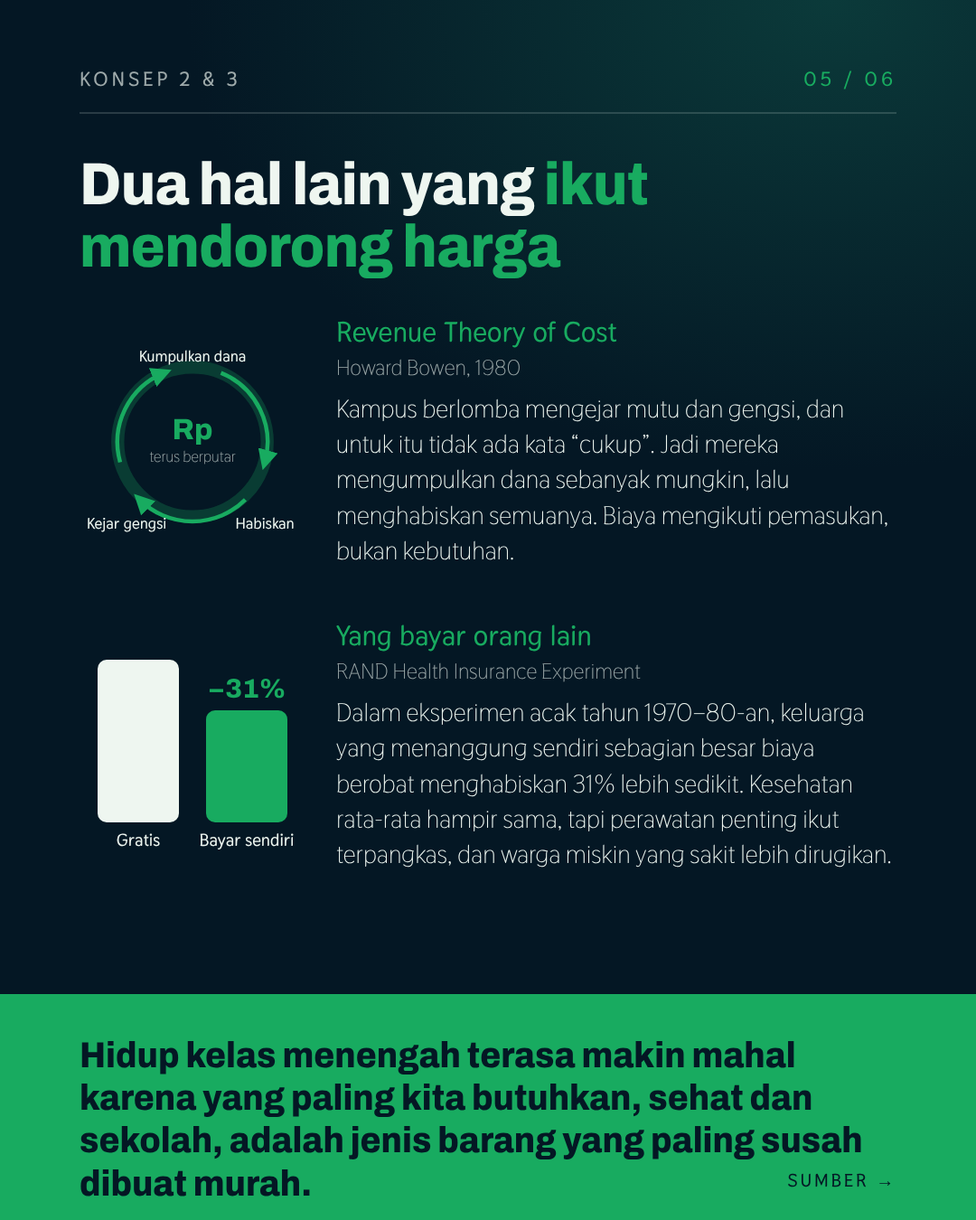
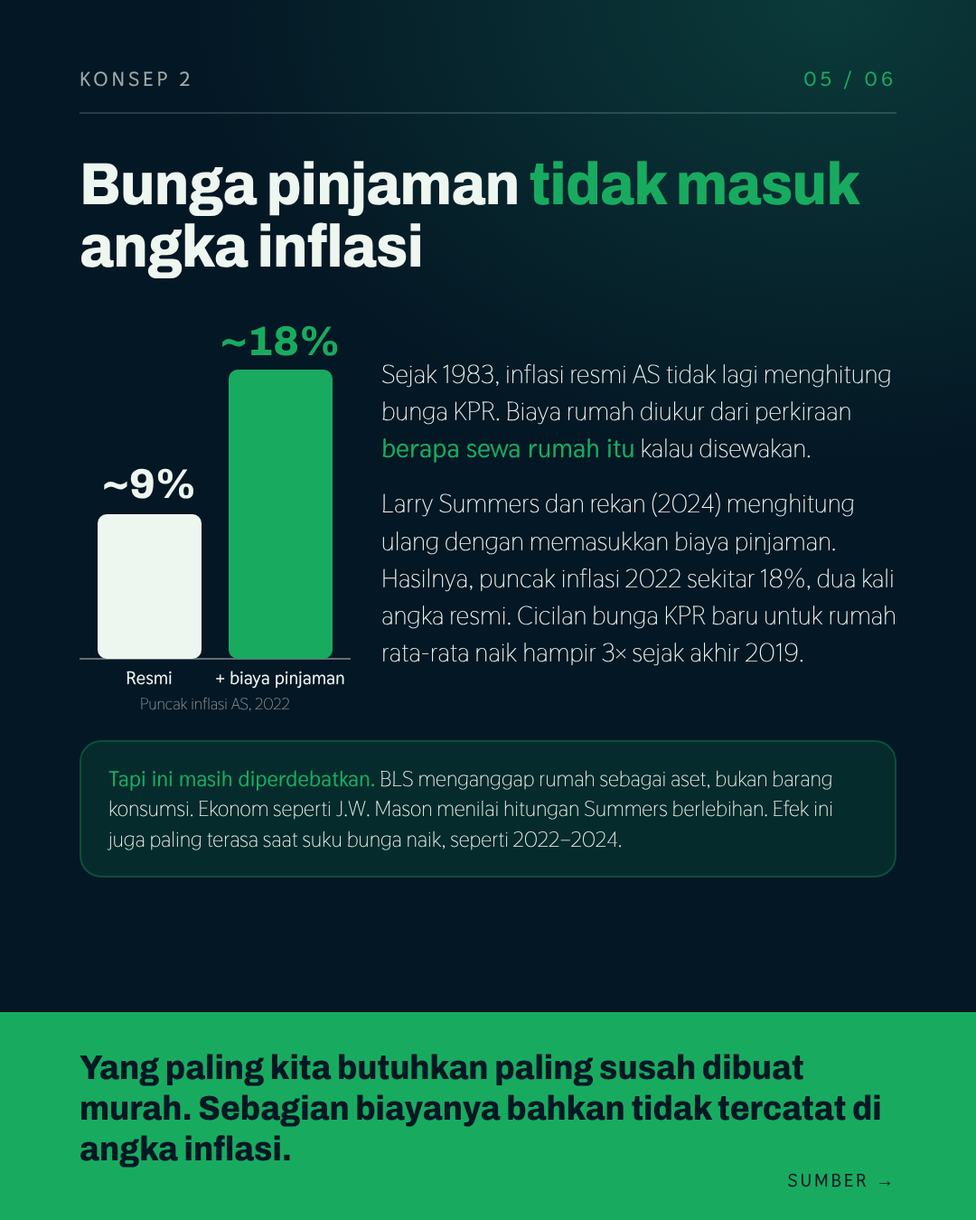
Revise slides 1, 3, 5, 6: diverging hospital/TV bars, inflation-as-average bridge to Baumol, CPI excludes mortgage interest
Claude-Session: https://claude.ai/code/session_01D1Rcjsap9uvFUcCcY9nTUe

Changed region(s): [[0.0611, 0.1244, 0.9167, 0.7156], [0.0, 0.8089, 1.0, 0.9956], [0.0917, 0.1244, 0.1222, 0.1556]]

diff --git a/carousel/carousel.html b/carousel/carousel.html
@@ -71,7 +71,7 @@
   /* slide 5 */
   .concept { display: grid; grid-template-columns: 250px 1fr; gap: 34px; align-items: center; margin-top: 30px; }
   .concept h3 { font: 700 31px/1.2 var(--body); color: var(--lime); margin-bottom: 10px; }
-  .concept p { font-size: 28px; line-height: 1.4; }
+  .concept p { font-size: 29px; line-height: 1.42; }
   .end { position: absolute; left: 0; right: 0; bottom: 0; height: 250px; background: var(--lime);
          padding: 44px 88px 0; color: var(--ink); }
   .end p { font: 800 40px/1.18 var(--head); font-stretch: 92%; }
@@ -93,24 +93,23 @@
 
   <h1>Di Amerika, harga TV tinggal secuil dibanding tahun 2000.<br><span class="hl">Biaya rumah sakit? Hampir empat kali lipat.</span></h1>
 
-  <svg width="904" height="430" viewBox="0 0 904 430" style="margin-top:40px">
-    <line x1="0" y1="376" x2="904" y2="376" stroke="rgba(238,246,240,.35)" stroke-width="2"/>
-    <line x1="0" y1="282" x2="904" y2="282" stroke="rgba(238,246,240,.4)" stroke-width="2" stroke-dasharray="6 8"/>
-    <text x="0" y="268" font-size="21" fill="rgba(238,246,240,.7)" letter-spacing="1.5">HARGA TAHUN 2000</text>
+  <svg width="904" height="470" viewBox="0 0 904 470" style="margin-top:36px">
+    <rect x="190" y="15" width="250" height="315" rx="10" fill="#18ab60"/>
+    <text x="315" y="89" text-anchor="middle" font-size="60" font-weight="800" fill="#041724" style="font-family:'Archivo';font-stretch:92%">+281%</text>
+    <text x="315" y="125" text-anchor="middle" font-size="23" fill="#041724">≈ 3,8× lipat</text>
+    <text x="315" y="374" text-anchor="middle" font-size="28" font-weight="700">Layanan rumah sakit</text>
 
-    <rect x="170" y="282" width="230" height="94" rx="10" fill="none" stroke="rgba(238,246,240,.45)" stroke-width="2.5" stroke-dasharray="8 7"/>
-    <rect x="170" y="370" width="230" height="6" rx="3" fill="#eef6f0"/>
-    <text x="285" y="344" text-anchor="middle" font-size="46" font-weight="700" style="font-family:'Archivo';font-stretch:92%">−97%</text>
-    <text x="285" y="416" text-anchor="middle" font-size="28" font-weight="700">TV</text>
+    <rect x="560" y="330" width="250" height="109" rx="10" fill="rgba(238,246,240,.12)" stroke="#eef6f0" stroke-width="2.5"/>
+    <text x="685" y="400" text-anchor="middle" font-size="50" font-weight="800" style="font-family:'Archivo';font-stretch:92%">−97%</text>
+    <text x="685" y="308" text-anchor="middle" font-size="28" font-weight="700">TV</text>
 
-    <rect x="540" y="18" width="230" height="358" rx="10" fill="#18ab60"/>
-    <rect x="540" y="282" width="230" height="94" rx="10" fill="none" stroke="#041724" stroke-opacity=".45" stroke-width="2.5" stroke-dasharray="8 7"/>
-    <text x="655" y="92" text-anchor="middle" font-size="56" font-weight="800" fill="#041724" style="font-family:'Archivo';font-stretch:92%">+281%</text>
-    <text x="655" y="126" text-anchor="middle" font-size="22" fill="#041724">≈ 3,8× lipat</text>
-    <text x="655" y="416" text-anchor="middle" font-size="28" font-weight="700">Layanan rumah sakit</text>
+    <line x1="0" y1="330" x2="904" y2="330" stroke="#eef6f0" stroke-width="3"/>
+    <text x="0" y="316" font-size="21" font-weight="700" letter-spacing="1.5">0%</text>
+    <text x="0" y="360" font-size="18" fill="rgba(238,246,240,.7)">= harga</text>
+    <text x="0" y="382" font-size="18" fill="rgba(238,246,240,.7)">tahun 2000</text>
   </svg>
 
-  <p class="lead" style="margin-top:26px;font-size:31px">Kenapa hal-hal yang paling kita butuhkan justru yang paling cepat naik harganya?</p>
+  <p class="lead" style="margin-top:20px;font-size:31px">Kenapa hal-hal yang paling kita butuhkan justru yang paling cepat naik harganya?</p>
 
   <div class="bottom">
     <span>Data Amerika Serikat. Rumah sakit 2000–2025, TV 2000–2022.<br>Sumber: BLS via Mark J. Perry (AEI).</span>
@@ -182,63 +181,58 @@
   </div>
 </section>
 
-<!-- ───────────── 03 PUBLIC OR PRIVATE ───────────── -->
+<!-- ───────────── 03 INFLATION IS AN AVERAGE ───────────── -->
 <section class="slide dark" id="s3">
-  <div class="top"><span>Negeri atau swasta?</span><span class="num">03 / 06</span></div>
+  <div class="top"><span>Kenapa terasa mahal?</span><span class="num">03 / 06</span></div>
   <div class="rule"></div>
 
-  <h2 style="margin-top:44px">Salah pengelolanya?<br><span class="hl">Ternyata dua-duanya kena.</span></h2>
+  <h2 style="margin-top:44px">Inflasi itu rata-rata.<br><span class="hl">Hidup kita tidak.</span></h2>
+  <p class="lead" style="font-size:30px;margin-top:22px">Angka inflasi <b>+93%</b> adalah rata-rata dari ratusan barang dan jasa. Barang yang makin murah ikut menarik rata-rata itu ke bawah.</p>
 
-  <div class="cards">
-    <div class="card">
-      <svg width="320" height="176" viewBox="0 0 320 176">
-        <text x="0" y="20" font-size="21" font-weight="700">Inflasi</text>
-        <rect x="0" y="30" width="56" height="26" rx="5" fill="none" stroke="rgba(238,246,240,.55)" stroke-width="2" stroke-dasharray="5 5"/>
-        <text x="68" y="51" font-size="24" font-weight="800" style="font-family:'Archivo'" fill="rgba(238,246,240,.7)">1×</text>
-        <text x="0" y="82" font-size="21" font-weight="700">Negeri</text>
-        <rect x="0" y="92" width="129" height="26" rx="5" fill="#138651"/>
-        <text x="141" y="113" font-size="24" font-weight="800" style="font-family:'Archivo'">2,3×</text>
-        <text x="0" y="144" font-size="21" font-weight="700">Swasta nirlaba</text>
-        <rect x="0" y="150" width="134" height="26" rx="5" fill="#18ab60"/>
-        <text x="146" y="171" font-size="24" font-weight="800" style="font-family:'Archivo'" fill="#18ab60">2,4×</text>
-      </svg>
-      <div>
-        <h3>Kampus negeri &amp; swasta</h3>
-        <p>Selama 1987–2025, biaya kuliah naik 2,3× laju inflasi di kampus negeri dan 2,4× di kampus swasta nirlaba. Hampir sama.</p>
-      </div>
-    </div>
+  <!-- strip plot: x = 40 + (v + 100) * 2.06 -->
+  <svg width="904" height="440" viewBox="0 0 904 440" style="margin-top:22px">
+    <rect x="40" y="246" width="206" height="8" rx="4" fill="rgba(238,246,240,.35)"/>
+    <rect x="246" y="246" width="618" height="8" rx="4" fill="#0e6142"/>
+    <rect x="246" y="246" width="192" height="8" rx="4" fill="#138651"/>
+    <line x1="246" y1="236" x2="246" y2="264" stroke="#eef6f0" stroke-width="3"/>
+    <text x="246" y="290" text-anchor="middle" font-size="19" font-weight="700" fill="rgba(238,246,240,.75)">0%</text>
+    <text x="864" y="18" text-anchor="end" font-size="18" font-weight="700" letter-spacing="2" fill="#18ab60">DIKERJAKAN MANUSIA ↑</text>
+    <text x="40" y="440" font-size="18" font-weight="700" letter-spacing="2" fill="rgba(238,246,240,.7)">DIBUAT MESIN ↓</text>
 
-    <div class="card">
-      <div class="big">20,5<span class="hl"> → </span>15,4<small>murid per guru, 1970 → 1990</small></div>
-      <div>
-        <h3>Sekolah negeri</h3>
-        <p>Ikut makin mahal. Salah satu sebabnya, satu guru kini mengurus lebih sedikit murid, jadi butuh lebih banyak guru.</p>
-      </div>
-    </div>
+    <line x1="438" y1="220" x2="438" y2="286" stroke="#18ab60" stroke-width="3"/>
+    <circle cx="438" cy="250" r="18" fill="#041724" stroke="#18ab60" stroke-width="4"/>
+    <text x="430" y="320" font-size="24" font-weight="700" fill="#18ab60">+93% rata-rata inflasi</text>
+    <text x="430" y="350" font-size="21" fill="rgba(238,246,240,.8)">← ditarik turun oleh barang murah</text>
+    <line x1="46" y1="250" x2="46" y2="378" stroke="#eef6f0" stroke-opacity=".5" stroke-width="2"/>
+    <text x="58" y="404" text-anchor="start" font-size="23"><tspan font-weight="700" fill="#eef6f0">−97%</tspan> <tspan fill="rgba(238,246,240,.85)">TV</tspan></text>
+    <line x1="98" y1="250" x2="98" y2="336" stroke="#eef6f0" stroke-opacity=".5" stroke-width="2"/>
+    <text x="110" y="362" text-anchor="start" font-size="23"><tspan font-weight="700" fill="#eef6f0">−72%</tspan> <tspan fill="rgba(238,246,240,.85)">Mainan</tspan></text>
+    <line x1="101" y1="250" x2="101" y2="294" stroke="#eef6f0" stroke-opacity=".5" stroke-width="2"/>
+    <text x="113" y="320" text-anchor="start" font-size="23"><tspan font-weight="700" fill="#eef6f0">−70,5%</tspan> <tspan fill="rgba(238,246,240,.85)">Software</tspan></text>
+    <line x1="162" y1="250" x2="162" y2="118" stroke="#eef6f0" stroke-opacity=".5" stroke-width="2"/>
+    <text x="174" y="110" text-anchor="start" font-size="23"><tspan font-weight="700" fill="#eef6f0">−41%</tspan> <tspan fill="rgba(238,246,240,.85)">Layanan ponsel</tspan></text>
+    <line x1="516" y1="250" x2="516" y2="178" stroke="#eef6f0" stroke-opacity=".5" stroke-width="2"/>
+    <text x="504" y="170" text-anchor="end" font-size="23"><tspan font-weight="700" fill="#eef6f0">+131%</tspan> <tspan fill="rgba(238,246,240,.85)">Gaji per jam</tspan></text>
+    <line x1="652" y1="250" x2="652" y2="118" stroke="#18ab60" stroke-opacity=".5" stroke-width="2"/>
+    <text x="664" y="110" text-anchor="start" font-size="23"><tspan font-weight="700" fill="#18ab60">+197%</tspan> <tspan fill="rgba(238,246,240,.85)">Kuliah</tspan></text>
+    <line x1="825" y1="250" x2="825" y2="58" stroke="#18ab60" stroke-opacity=".5" stroke-width="2"/>
+    <text x="835" y="50" text-anchor="end" font-size="23"><tspan font-weight="700" fill="#18ab60">+281%</tspan> <tspan fill="rgba(238,246,240,.85)">Rumah sakit</tspan></text>
+    <circle cx="46" cy="250" r="10" fill="#041724" stroke="#eef6f0" stroke-width="3"/>
+    <circle cx="98" cy="250" r="10" fill="#041724" stroke="#eef6f0" stroke-width="3"/>
+    <circle cx="101" cy="250" r="10" fill="#041724" stroke="#eef6f0" stroke-width="3"/>
+    <circle cx="162" cy="250" r="10" fill="#041724" stroke="#eef6f0" stroke-width="3"/>
+    <circle cx="516" cy="250" r="11" fill="#eef6f0"/>
+    <circle cx="652" cy="250" r="13" fill="#18ab60"/>
+    <circle cx="825" cy="250" r="13" fill="#18ab60"/>
+    
+  </svg>
 
-    <div class="card">
-      <svg width="300" height="130" viewBox="0 0 300 150" aria-label="Ikon panggung">
-        <path d="M10 20 Q150 70 290 20 L290 34 Q150 84 10 34 Z" fill="#18ab60"/>
-        <path d="M10 20 L10 140 L58 140 Q40 80 52 36 Z" fill="#138651"/>
-        <path d="M290 20 L290 140 L242 140 Q260 80 248 36 Z" fill="#138651"/>
-        <g fill="#eef6f0">
-          <circle cx="112" cy="104" r="11"/><rect x="104" y="117" width="16" height="23" rx="5"/>
-          <circle cx="150" cy="98" r="11"/><rect x="142" y="111" width="16" height="29" rx="5"/>
-          <circle cx="188" cy="104" r="11"/><rect x="180" y="117" width="16" height="23" rx="5"/>
-        </g>
-        <line x1="60" y1="141" x2="240" y2="141" stroke="#eef6f0" stroke-width="3"/>
-      </svg>
-      <div>
-        <h3>Seni pertunjukan</h3>
-        <p>Pola ini pertama kali ditemukan di orkestra dan teater, yang tidak ada urusannya dengan pemerintah.</p>
-      </div>
-    </div>
-  </div>
+  <p style="font-size:27px;line-height:1.4;margin-top:16px">Masalahnya, TV murah tidak bisa membayar biaya rumah sakit. Yang makin murah adalah barang yang bisa ditunda. Yang makin mahal justru yang tidak bisa kita hindari: berobat dan sekolah.</p>
 
-  <p class="callout" style="margin-top:28px;font-size:31px">Mungkin pertanyaannya bukan siapa yang mengelola. Ada sesuatu di sifat pekerjaannya.</p>
+  <p class="callout" style="margin-top:24px;font-size:30px">Kenapa yang dibuat mesin makin murah, sementara yang dikerjakan manusia makin mahal? Tahun 1966, dua ekonom menemukan jawabannya.</p>
 
   <div class="bottom">
-    <span>Sumber: Educational Policy Institute (data College Board); Hanushek (1996).</span>
+    <span>Data AS. RS, kuliah, gaji, inflasi: 2000–2025. TV, mainan, software, ponsel: 2000–2022. Sumber: BLS via Mark J. Perry (AEI).</span>
     <span class="swipe">Geser →</span>
   </div>
 </section>
@@ -302,50 +296,36 @@
   </div>
 </section>
 
-<!-- ───────────── 05 BOWEN + RAND ───────────── -->
+<!-- ───────────── 05 COST OF MONEY ───────────── -->
 <section class="slide dark" id="s5">
-  <div class="top"><span>Konsep 2 &amp; 3</span><span class="num">05 / 06</span></div>
+  <div class="top"><span>Konsep 2</span><span class="num">05 / 06</span></div>
   <div class="rule"></div>
 
-  <h2 style="margin-top:44px">Dua hal lain yang <span class="hl">ikut mendorong harga</span></h2>
+  <h2 style="margin-top:44px">Bunga pinjaman <span class="hl">tidak masuk</span> angka inflasi</h2>
 
-  <div class="concept" style="margin-top:40px">
-    <svg width="250" height="250" viewBox="-14 0 278 250">
-      <defs><marker id="ar" viewBox="0 0 10 10" refX="6" refY="5" markerWidth="5" markerHeight="5" orient="auto"><path d="M0 0 L10 5 L0 10 Z" fill="#18ab60"/></marker></defs>
-      <circle cx="125" cy="125" r="92" fill="none" stroke="rgba(24,171,96,.25)" stroke-width="16"/>
-      <path d="M 160 40 A 92 92 0 0 1 214 150" fill="none" stroke="#18ab60" stroke-width="5" marker-end="url(#ar)"/>
-      <path d="M 190 196 A 92 92 0 0 1 60 196" fill="none" stroke="#18ab60" stroke-width="5" marker-end="url(#ar)"/>
-      <path d="M 36 150 A 92 92 0 0 1 90 40" fill="none" stroke="#18ab60" stroke-width="5" marker-end="url(#ar)"/>
-      <g font-size="19" font-weight="700" text-anchor="middle">
-        <text x="125" y="26">Kumpulkan dana</text>
-        <text x="214" y="232">Habiskan</text>
-        <text x="44" y="232">Kejar gengsi</text>
-      </g>
-      <text x="125" y="122" text-anchor="middle" font-size="36" font-weight="800" fill="#18ab60" style="font-family:'Archivo'">Rp</text>
-      <text x="125" y="150" text-anchor="middle" font-size="19" fill="rgba(238,246,240,.7)">terus berputar</text>
+  <div class="concept" style="margin-top:40px;grid-template-columns:300px 1fr;align-items:center">
+    <svg width="300" height="440" viewBox="0 0 300 440">
+      <line x1="0" y1="380" x2="300" y2="380" stroke="rgba(238,246,240,.4)" stroke-width="2"/>
+      <rect x="20" y="220" width="115" height="160" rx="10" fill="#eef6f0"/>
+      <rect x="165" y="60" width="115" height="320" rx="10" fill="#18ab60"/>
+      <text x="77" y="202" text-anchor="middle" font-size="46" font-weight="800" style="font-family:'Archivo'">~9%</text>
+      <text x="222" y="44" text-anchor="middle" font-size="46" font-weight="800" fill="#18ab60" style="font-family:'Archivo'">~18%</text>
+      <text x="77" y="408" text-anchor="middle" font-size="20" font-weight="700">Resmi</text>
+      <text x="222" y="408" text-anchor="middle" font-size="20" font-weight="700">+ biaya pinjaman</text>
+      <text x="150" y="436" text-anchor="middle" font-size="18" fill="rgba(238,246,240,.6)">Puncak inflasi AS, 2022</text>
     </svg>
     <div>
-      <h3>Revenue Theory of Cost<br><span style="color:var(--mist);font-weight:400;font-size:24px">Howard Bowen, 1980</span></h3>
-      <p>Kampus berlomba mengejar mutu dan gengsi, dan untuk itu tidak ada kata “cukup”. Jadi mereka mengumpulkan dana sebanyak mungkin, lalu menghabiskan semuanya. Biaya mengikuti pemasukan, bukan kebutuhan.</p>
+      <p>Sejak 1983, inflasi resmi AS tidak lagi menghitung bunga KPR. Biaya rumah diukur dari perkiraan <b style="color:#18ab60">berapa sewa rumah itu</b> kalau disewakan.</p>
+      <p style="margin-top:20px">Larry Summers dan rekan (2024) menghitung ulang dengan memasukkan biaya pinjaman. Hasilnya, puncak inflasi 2022 sekitar 18%, dua kali angka resmi. Cicilan bunga KPR baru untuk rumah rata-rata naik hampir 3× sejak akhir 2019.</p>
     </div>
   </div>
 
-  <div class="concept" style="margin-top:56px">
-    <svg width="250" height="230" viewBox="0 0 250 230">
-      <rect x="20" y="20" width="90" height="180" rx="10" fill="#eef6f0"/>
-      <rect x="140" y="76" width="90" height="124" rx="10" fill="#18ab60"/>
-      <text x="185" y="62" text-anchor="middle" font-size="30" font-weight="800" fill="#18ab60" style="font-family:'Archivo'">−31%</text>
-      <text x="65" y="226" text-anchor="middle" font-size="19" font-weight="700">Gratis</text>
-      <text x="185" y="226" text-anchor="middle" font-size="19" font-weight="700">Bayar sendiri</text>
-    </svg>
-    <div>
-      <h3>Yang bayar orang lain<br><span style="color:var(--mist);font-weight:400;font-size:24px">RAND Health Insurance Experiment</span></h3>
-      <p>Dalam eksperimen acak tahun 1970–80-an, keluarga yang menanggung sendiri sebagian besar biaya berobat menghabiskan 31% lebih sedikit. Kesehatan rata-rata hampir sama, tapi perawatan penting ikut terpangkas, dan warga miskin yang sakit lebih dirugikan.</p>
-    </div>
+  <div style="margin-top:30px;padding:24px 30px;border-radius:24px;background:rgba(14,97,66,.28);border:2px solid rgba(24,171,96,.28)">
+    <p style="font-size:24px;line-height:1.4"><b style="color:#18ab60">Tapi ini masih diperdebatkan.</b> BLS menganggap rumah sebagai aset, bukan barang konsumsi. Ekonom seperti J.W. Mason menilai hitungan Summers berlebihan. Efek ini juga paling terasa saat suku bunga naik, seperti 2022–2024.</p>
   </div>
 
-  <div class="end">
-    <p>Hidup kelas menengah terasa makin mahal karena yang paling kita butuhkan, sehat dan sekolah, adalah jenis barang yang paling susah dibuat murah.</p>
+  <div class="end" style="height:230px;padding-top:40px">
+    <p style="font-size:38px">Yang paling kita butuhkan paling susah dibuat murah. Sebagian biayanya bahkan tidak tercatat di angka inflasi.</p>
     <span class="swipe">Sumber →</span>
   </div>
 </section>
@@ -358,18 +338,18 @@
   <h2 style="margin-top:44px">Bacaan &amp; <span class="hl">data</span></h2>
 
   <ol class="src">
-    <li><span>Mark J. Perry (AEI), “Chart of the Century”, pembaruan 2000–2025, via HumanProgress.org (Gale Pooley, 2026). Data TV dari edisi Juli 2022. <i>Data dasar: BLS.</i></span></li>
-    <li><span>Educational Policy Institute, analisis data College Board 1987–2025.</span></li>
-    <li><span>Eric Hanushek, dikutip dalam <i>Christian Science Monitor</i> (1996).</span></li>
+    <li><span>Mark J. Perry (AEI), “Chart of the Century”, pembaruan 2000–2025, via HumanProgress.org (Gale Pooley, 2026); edisi Juli 2022 untuk TV, mainan, software, ponsel. <i>Data dasar: BLS.</i></span></li>
     <li><span>William Baumol &amp; William Bowen (1966), <i>Performing Arts: The Economic Dilemma.</i></span></li>
-    <li><span>William Baumol (1967), “Macroeconomics of Unbalanced Growth”, <i>American Economic Review</i>; Baumol (2012), <i>The Cost Disease</i>, Yale University Press.</span></li>
+    <li><span>William Baumol (1967), <i>American Economic Review</i>; Baumol (2012), <i>The Cost Disease</i>, Yale University Press.</span></li>
     <li><span>Romley, Goldman &amp; Sood (2015), <i>Health Affairs</i> 34(3).</span></li>
-    <li><span>Howard R. Bowen (1980), <i>The Costs of Higher Education.</i></span></li>
-    <li><span>Manning dkk. (1987), “Health Insurance and the Demand for Medical Care”, <i>American Economic Review</i>; RAND Health Insurance Experiment.</span></li>
+    <li><span>Bolhuis, Cramer, Schulz &amp; Summers (2024), “The Cost of Money is Part of the Cost of Living”, NBER Working Paper 32163.</span></li>
+    <li><span>Larry Summers (2024), <i>Finance &amp; Development</i>, IMF.</span></li>
+    <li><span>BLS, “Owners’ equivalent rent and the CPI: 30 years and counting”.</span></li>
+    <li><span>J.W. Mason (2025), “The Cost of Living and the Cost of Money”, <i>Barron’s</i>.</span></li>
   </ol>
 
   <div style="margin-top:40px;padding:26px 30px;border-radius:24px;background:rgba(4,23,36,.4);border:2px solid rgba(24,171,96,.28)">
-    <p style="font-size:24px;line-height:1.4"><b style="color:#18ab60">Catatan:</b> Semua data dari Amerika Serikat. Angka 2000–2025 diambil dari ringkasan chart Perry; angka TV memakai data hingga 2022. Grafik di slide 4 adalah ilustrasi konsep.</p>
+    <p style="font-size:24px;line-height:1.4"><b style="color:#18ab60">Catatan:</b> Semua data dari Amerika Serikat. Angka 2000–2025 diambil dari ringkasan chart Perry; TV, mainan, software, dan ponsel memakai data hingga 2022. Grafik di slide 4 adalah ilustrasi konsep. Angka 18% berasal dari makalah kerja yang belum ditelaah sejawat.</p>
   </div>
 
   <div class="bottom">

diff --git a/drafts/carousel-draft-id.md b/drafts/carousel-draft-id.md
@@ -1,7 +1,7 @@
 # Draft Carousel Instagram — "Kenapa Hidup Kelas Menengah Makin Mahal?"
 
 Format: 6 slide (5 isi + 1 sumber). Semua data dari Amerika Serikat.
-Versi 2: slide 3 dibuat netral, narasi lebih manusiawi, fokus ke konsep ekonomi.
+Versi 3: slide 3 jadi penjelasan "inflasi itu rata-rata" + jembatan ke Baumol; slide 5 diganti hipotesis bunga KPR (terverifikasi sebagian).
 
 ---
 
@@ -36,18 +36,17 @@ Barang buatan mesin makin murah. Yang butuh tangan dan waktu manusia makin mahal
 
 ---
 
-## Slide 3 — Negeri atau swasta?
+## Slide 3 — Inflasi itu rata-rata (jembatan ke Baumol)
 
-**Judul:**
-Salah pengelolanya? Ternyata dua-duanya kena.
+**Judul:** Inflasi itu rata-rata. Hidup kita tidak.
 
-**Isi:**
-- **Kampus negeri dan swasta naik hampir sama cepat.** Selama 1987–2025, biaya kuliah naik 2,3× laju inflasi di kampus negeri dan 2,4× di kampus swasta nirlaba.
-- **Sekolah negeri juga makin mahal.** Salah satu sebabnya, satu guru kini mengurus lebih sedikit murid: rasionya turun dari 20,5 (1970) ke 15,4 (1990).
-- **Pola ini pertama kali ditemukan di dunia seni pertunjukan**, seperti orkestra dan teater, yang tidak ada urusannya dengan pemerintah.
+**Isi:** Angka inflasi +93% adalah rata-rata dari ratusan barang dan jasa. Barang yang makin murah ikut menarik rata-rata itu ke bawah.
 
-**Penutup:**
-Mungkin pertanyaannya bukan siapa yang mengelola. Ada sesuatu di sifat pekerjaannya.
+**Grafik (strip plot, −100% s/d +300%):** TV −97%, mainan −72%, software −70,5%, layanan ponsel −41% (2000–2022) · rata-rata inflasi +93% · gaji +131% · kuliah +197% · rumah sakit +281% (2000–2025).
+
+**Paragraf:** Masalahnya, TV murah tidak bisa membayar biaya rumah sakit. Yang makin murah adalah barang yang bisa ditunda. Yang makin mahal justru yang tidak bisa kita hindari: berobat dan sekolah.
+
+**Jembatan:** Kenapa yang dibuat mesin makin murah, sementara yang dikerjakan manusia makin mahal? Tahun 1966, dua ekonom menemukan jawabannya.
 
 ---
 
@@ -68,33 +67,31 @@ Sebagian "kemandekan" ini soal cara mengukur. Studi rumah sakit AS 2002–2011: 
 
 ---
 
-## Slide 5 — Dua konsep lain + penutup
+## Slide 5 — Konsep 2: Bunga pinjaman tidak masuk angka inflasi
 
-**Judul:**
-Dua hal lain yang ikut mendorong harga
+**Grafik:** Puncak inflasi AS 2022: resmi ~9% vs dengan biaya pinjaman ~18%.
 
 **Isi:**
-**1. Revenue Theory of Cost (Howard Bowen, 1980)**
-Kampus berlomba mengejar mutu dan gengsi, dan untuk itu tidak ada kata "cukup". Jadi mereka mengumpulkan dana sebanyak mungkin, lalu menghabiskan semuanya. Biaya mengikuti pemasukan, bukan kebutuhan.
+Sejak 1983, inflasi resmi AS tidak lagi menghitung bunga KPR. Biaya rumah diukur dari perkiraan berapa sewa rumah itu kalau disewakan.
 
-**2. Yang bayar orang lain (RAND Health Insurance Experiment)**
-Dalam eksperimen acak tahun 1970–80-an, keluarga yang menanggung sendiri sebagian besar biaya berobat menghabiskan 31% lebih sedikit daripada yang berobat gratis. Kesehatan rata-rata mereka hampir sama. Tapi mereka juga mengurangi perawatan yang sebenarnya penting, dan warga miskin yang sakit lebih dirugikan.
+Larry Summers dan rekan (2024) menghitung ulang dengan memasukkan biaya pinjaman. Hasilnya, puncak inflasi 2022 sekitar 18%, dua kali angka resmi. Cicilan bunga KPR baru untuk rumah rata-rata naik hampir 3× sejak akhir 2019.
 
-**Penutup:**
-Hidup kelas menengah terasa makin mahal karena yang paling kita butuhkan, sehat dan sekolah, adalah jenis barang yang paling susah dibuat murah.
+**Catatan:** Tapi ini masih diperdebatkan. BLS menganggap rumah sebagai aset, bukan barang konsumsi. Ekonom seperti J.W. Mason menilai hitungan Summers berlebihan. Efek ini juga paling terasa saat suku bunga naik, seperti 2022–2024.
+
+**Penutup:** Yang paling kita butuhkan paling susah dibuat murah. Sebagian biayanya bahkan tidak tercatat di angka inflasi.
 
 ---
 
 ## Slide 6 — Sumber
 
-1. Mark J. Perry (AEI), "Chart of the Century", pembaruan 2000–2025 (via HumanProgress.org, Gale Pooley, 2026); data TV dari edisi Juli 2022. Data dasar: BLS.
-2. Educational Policy Institute, analisis data College Board 1987–2025.
-3. Eric Hanushek, dikutip dalam *Christian Science Monitor* (1996).
-4. Baumol & Bowen (1966), *Performing Arts: The Economic Dilemma*.
-5. Baumol (1967), "Macroeconomics of Unbalanced Growth", *American Economic Review*; Baumol (2012), *The Cost Disease*, Yale University Press.
-6. Romley, Goldman & Sood (2015), *Health Affairs* 34(3).
-7. Howard R. Bowen (1980), *The Costs of Higher Education*.
-8. Manning dkk. (1987), "Health Insurance and the Demand for Medical Care", *American Economic Review*; RAND Health Insurance Experiment.
+1. Mark J. Perry (AEI), "Chart of the Century", 2000–2025 (via HumanProgress.org); edisi Juli 2022 untuk TV, mainan, software, ponsel. Data dasar: BLS.
+2. Baumol & Bowen (1966), *Performing Arts: The Economic Dilemma*.
+3. Baumol (1967), *AER*; Baumol (2012), *The Cost Disease*.
+4. Romley, Goldman & Sood (2015), *Health Affairs* 34(3).
+5. Bolhuis, Cramer, Schulz & Summers (2024), NBER Working Paper 32163.
+6. Summers (2024), *Finance & Development*, IMF.
+7. BLS, "Owners' equivalent rent and the CPI: 30 years and counting".
+8. J.W. Mason (2025), *Barron's*.
 
 ---
 
@@ -113,3 +110,7 @@ Hidup kelas menengah terasa makin mahal karena yang paling kita butuhkan, sehat 
 | RAND: −31% belanja | Paket "catastrophic" vs gratis (Manning dkk. 1987) |
 | RAND: kesehatan rata-rata hampir sama, kecuali kelompok miskin yang sakit | Ringkasan RAND (tekanan darah, penglihatan) |
 | Dihapus dari versi 1 | Perbandingan belanja kesehatan antarnegara, biaya administrasi RS, Niskanen, Arrow: dihapus supaya slide 3 netral dan fokus ke konsep |
+| Mainan −72%, software −70,5%, ponsel −41% | AEI edisi Juli 2022 (2000–2022) |
+| CPI tanpa bunga KPR sejak 1983 | Terverifikasi (BLS, owners' equivalent rent) |
+| Inflasi ~18% vs ~9% (puncak 2022) | Summers dkk., makalah kerja NBER (belum ditelaah sejawat); 18% dikutip luas, belum dicek ke grafik asli |
+| Cicilan bunga KPR baru naik hampir 3× sejak akhir 2019 | Summers, IMF F&D (Des 2024) |
